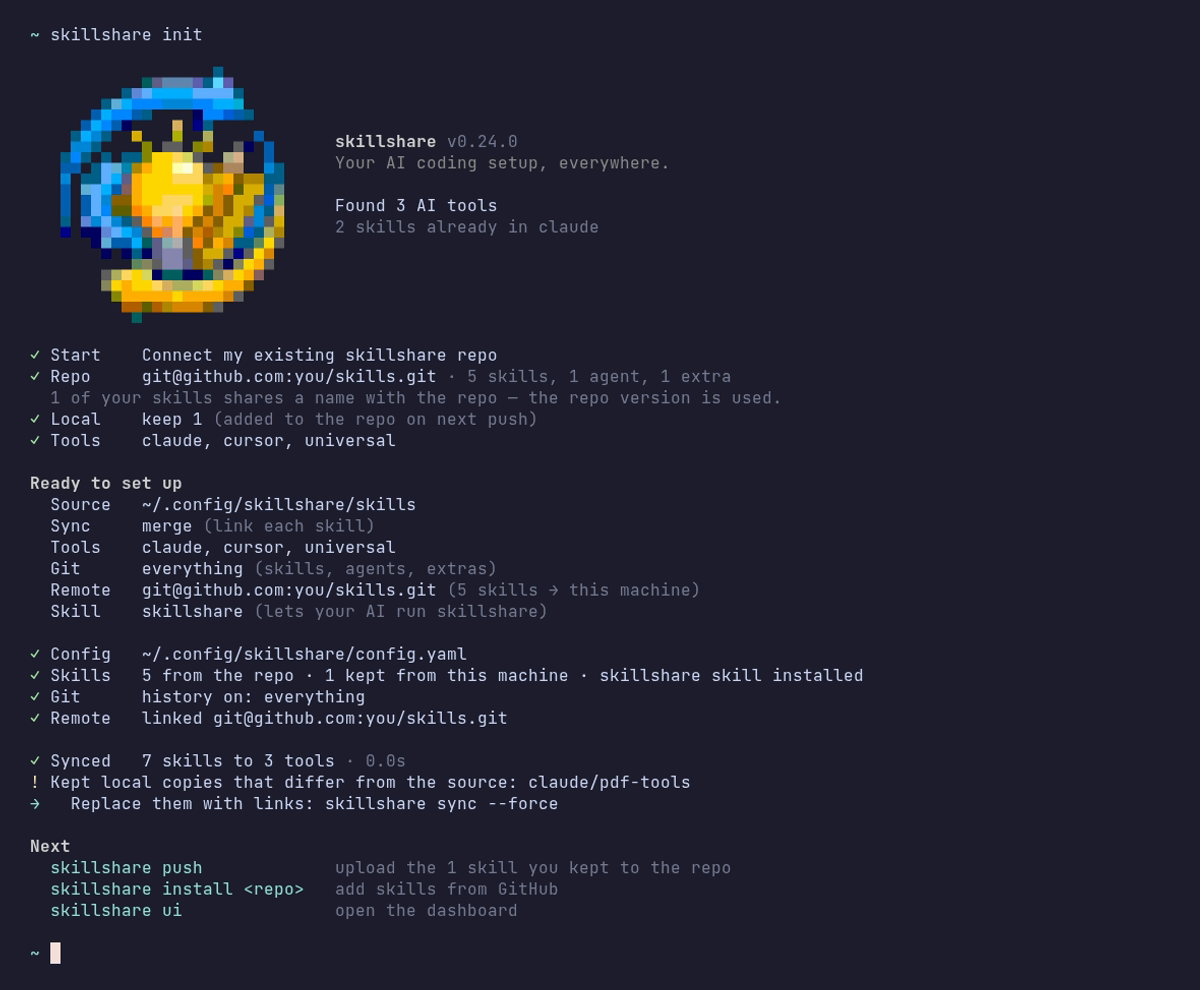
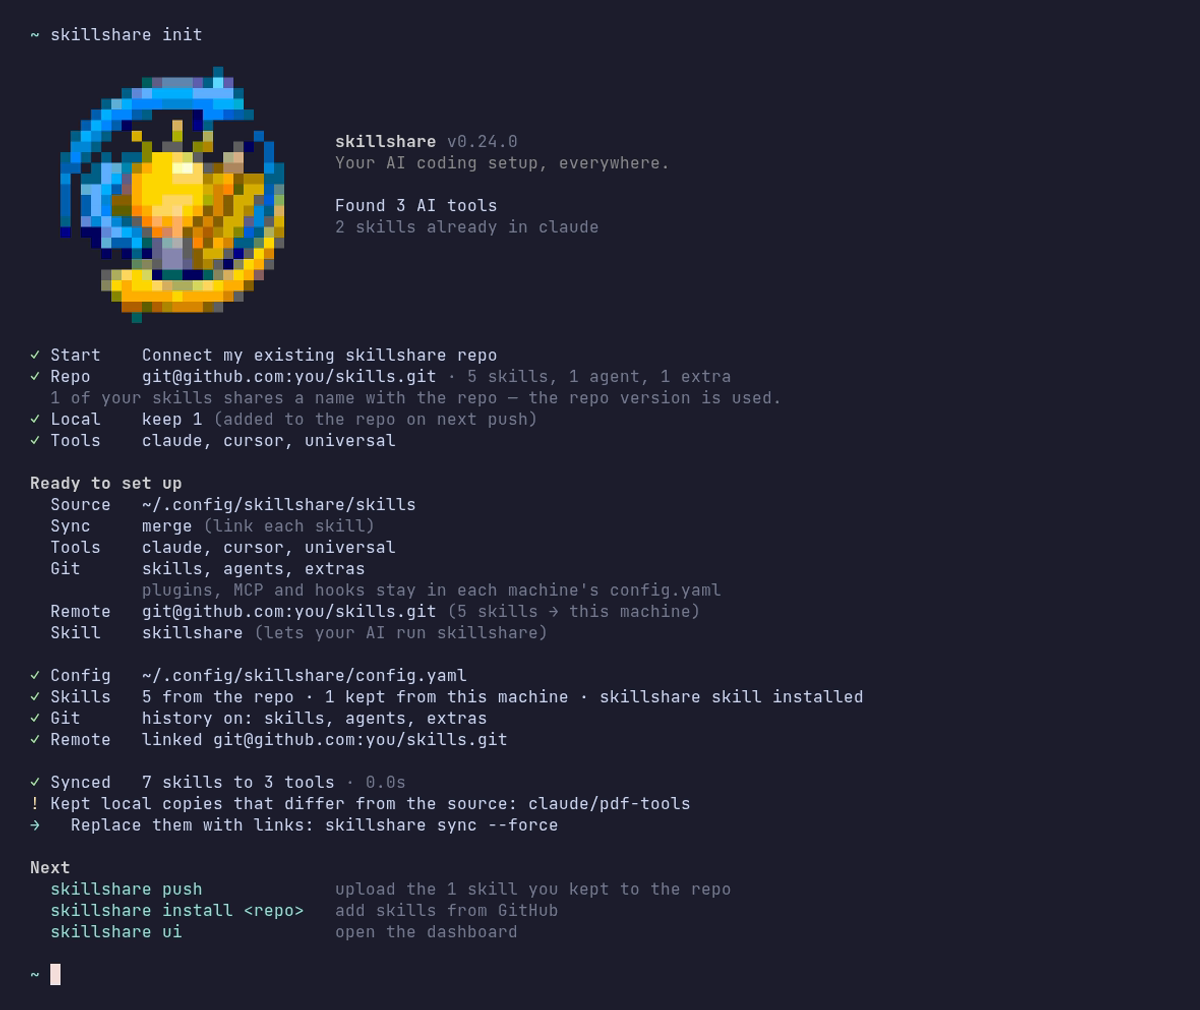
fix(init): name the root git scope by what it versions
"everything" suggested plugins, MCP servers and hooks were versioned too,
but they live in config.yaml, which the root scope gitignores. The option
and summary now say "skills, agents, extras" and note that those settings
stay in each machine's config.yaml.

Refs #200

diff --git a/cmd/skillshare/init_flow.go b/cmd/skillshare/init_flow.go
@@ -400,7 +400,8 @@ func summaryLines(p *initPlan, title, changed string) []string {
 	case !p.git:
 		row("Git", "off "+dim.Render("(deleted skills can't be restored)"), "git")
 	case p.gitScope == "root":
-		row("Git", "everything "+dim.Render("(skills, agents, extras)"), "git")
+		row("Git", "skills, agents, extras", "git")
+		lines = append(lines, fmt.Sprintf("  %-8s %s", "", dim.Render("plugins, MCP and hooks stay in each machine's config.yaml")))
 	default:
 		row("Git", p.gitScope+" only", "git")
 	}
@@ -487,7 +488,7 @@ func changeSetting(p *initPlan, home string) (string, error) {
 			current = "off"
 		}
 		v, err := ui.Select("What should git keep history of?", []ui.Option{
-			{Label: "everything    " + theme.Dim().Render("skills, agents, extras"), Value: "root"},
+			{Label: "skills, agents, extras", Value: "root"},
 			{Label: "skills only", Value: "skills"},
 			{Label: "off", Value: "off"},
 		}, current)
@@ -554,7 +555,7 @@ func describeGit(p *initPlan) string {
 	case !p.git:
 		return "off"
 	case p.gitScope == "root":
-		return "everything"
+		return "skills, agents, extras"
 	default:
 		return p.gitScope + " only"
 	}

diff --git a/website/i18n/ja/docusaurus-plugin-content-docs/current/reference/commands/init.md b/website/i18n/ja/docusaurus-plugin-content-docs/current/reference/commands/init.md
@@ -43,7 +43,7 @@ flowchart TD
 |------|------------|
 | Tools | 検出されたすべての AI CLI |
 | Import | それらのツールにある既存の Skill すべて |
-| Git | オン。Skill のみをバージョン管理。remote を設定した場合はすべて（skills、agents、extras） |
+| Git | オン。Skill のみをバージョン管理。remote を設定した場合は skills、agents、extras。Plugins、MCP servers、hooks は各マシンの `config.yaml` に残ります |
 | 組み込み Skill | インストール |
 | Sync | はい |
 

diff --git a/website/docs/reference/commands/init.md b/website/docs/reference/commands/init.md
@@ -43,7 +43,7 @@ Each answer has a default, so pressing <kbd>Enter</kbd> through every question g
 |----------|---------|
 | Tools | Every detected AI CLI |
 | Import | Every skill those tools already have |
-| Git | On. Versions only the skills, or everything (skills, agents, extras) when a remote is linked |
+| Git | On. Versions only the skills, or skills, agents and extras when a remote is linked. Plugins, MCP servers and hooks stay in each machine's `config.yaml` |
 | Built-in skill | Installed |
 | Sync | Yes |
 

diff --git a/website/i18n/ko/docusaurus-plugin-content-docs/current/reference/commands/init.md b/website/i18n/ko/docusaurus-plugin-content-docs/current/reference/commands/init.md
@@ -43,7 +43,7 @@ flowchart TD
 |------|--------|
 | Tools | 감지된 모든 AI CLI |
 | Import | 그 도구들에 이미 있는 모든 skill |
-| Git | 켜짐. skill만 버전 관리하며, remote를 연결하면 전체(skills, agents, extras)를 버전 관리 |
+| Git | 켜짐. skill만 버전 관리하며, remote를 연결하면 skills, agents, extras를 버전 관리합니다. Plugins, MCP servers, hooks는 각 머신의 `config.yaml`에 남습니다 |
 | Built-in skill | 설치 |
 | Sync | 예 |
 

diff --git a/website/i18n/zh-Hans/docusaurus-plugin-content-docs/current/reference/commands/init.md b/website/i18n/zh-Hans/docusaurus-plugin-content-docs/current/reference/commands/init.md
@@ -43,7 +43,7 @@ flowchart TD
 |------|--------|
 | Tools | 检测到的所有 AI CLI |
 | Import | 这些工具里已有的所有 skills |
-| Git | 开启。只对 skills 做版本控制；绑定 remote 时对全部内容（skills、agents、extras）做版本控制 |
+| Git | 开启。只对 skills 做版本控制；绑定 remote 时对 skills、agents、extras 做版本控制。Plugins、MCP servers 和 hooks 留在各台机器的 `config.yaml` |
 | 内置 skill | 安装 |
 | Sync | 是 |
 

diff --git a/website/i18n/zh-Hant/docusaurus-plugin-content-docs/current/reference/commands/init.md b/website/i18n/zh-Hant/docusaurus-plugin-content-docs/current/reference/commands/init.md
@@ -43,7 +43,7 @@ flowchart TD
 |------|--------|
 | Tools | 偵測到的所有 AI CLI |
 | Import | 這些工具裡已有的所有 skills |
-| Git | 開啟。只版控 skills；綁定 remote 時版控全部（skills、agents、extras） |
+| Git | 開啟。只版控 skills；綁定 remote 時版控 skills、agents、extras。Plugins、MCP servers 和 hooks 留在各台機器的 `config.yaml` |
 | 內建 skill | 安裝 |
 | Sync | 是 |
 
